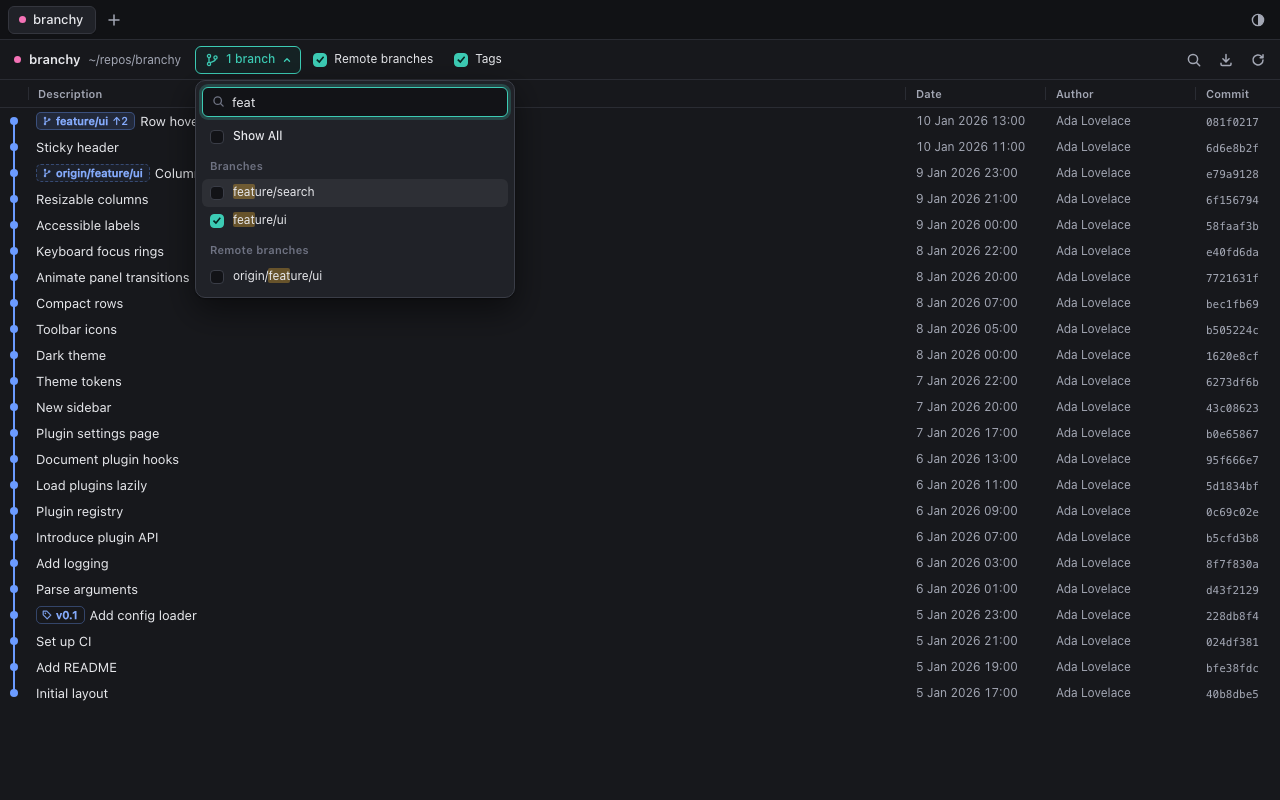
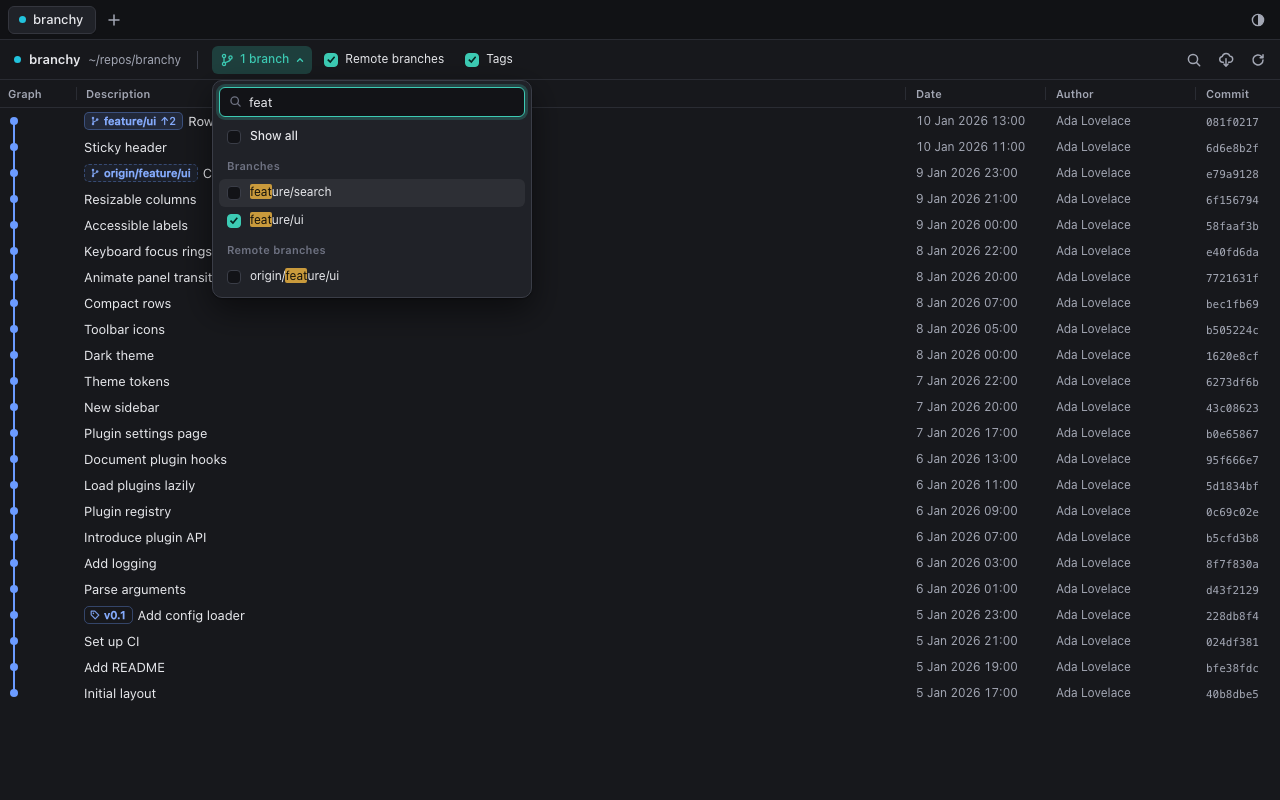
style(ui): cloud fetch glyph, recessed pop-up branch button, divider after the repository path; screenshots with the pointer parked off the grid

Changed region(s): [[0.0, 0.0312, 0.4375, 0.875], [0.375, 0.2188, 0.4375, 0.25], [0.9375, 0.0625, 0.9688, 0.0938]]

diff --git a/e2e/screens.spec.ts b/e2e/screens.spec.ts
@@ -67,7 +67,7 @@ for (const theme of ["light", "dark"] as const) {
     await open(page, gg.repoPath("branchy"));
     const grid = page.getByRole("grid", { name: "Commits" });
     await expect(grid.locator('[data-index="0"] .subject')).not.toBeEmpty();
-    await page.mouse.move(900, 790);
+    await page.mouse.move(700, 60);
     await page.waitForTimeout(150);
     await page.screenshot({ path: path.join(OUT, `toolbar-${theme}.png`) });
 
@@ -77,6 +77,7 @@ for (const theme of ["light", "dark"] as const) {
     await dialog.getByRole("option", { name: "feature/ui", exact: true }).click();
     await expect(grid.locator('[data-index="0"] .subject')).toHaveText("Row hover states");
     await page.keyboard.type("feat");
+    await page.mouse.move(1000, 60); // off the list and the grid
     await page.waitForTimeout(250);
     await page.screenshot({ path: path.join(OUT, `toolbar-filter-${theme}.png`) });
     await dialog.getByRole("option", { name: "Show all", exact: true }).click();
@@ -88,7 +89,7 @@ for (const theme of ["light", "dark"] as const) {
     await expect(page.getByTestId("search-count")).toHaveText(/^1 of \d+$/);
     await page.keyboard.press("Enter");
     await expect(page.getByTestId("search-count")).toHaveText(/^2 of \d+$/);
-    await page.mouse.move(900, 790);
+    await page.mouse.move(700, 60);
     await page.waitForTimeout(200);
     await page.screenshot({ path: path.join(OUT, `toolbar-search-${theme}.png`) });
   });

diff --git a/src/lib/components/BranchFilter.svelte b/src/lib/components/BranchFilter.svelte
@@ -311,34 +311,44 @@
     flex: none;
   }
 
+  /* A macOS-style recessed pop-up button: no border; filled on hover and while open. */
   .trigger {
     display: inline-flex;
     align-items: center;
-    gap: 7px;
+    gap: 6px;
     height: 28px;
     max-width: 220px;
-    padding: 0 8px 0 9px;
-    border: 1px solid var(--border-strong);
+    padding: 0 7px 0 8px;
+    border: 0;
     border-radius: var(--radius);
-    background: var(--field-bg);
+    background: transparent;
     color: var(--text);
     font-size: var(--fs-sm);
-    transition: background-color 80ms linear, border-color 80ms linear;
+    transition: background-color 80ms linear, color 80ms linear;
   }
 
   .trigger:hover {
-    border-color: var(--text-faint);
+    background: var(--bg-hover);
   }
 
   .trigger:active,
   .trigger.open {
-    background: var(--bg-hover);
+    background: var(--bg-pressed);
   }
 
+  /* Filtered: the choice reads in the accent colour, on a faint accent fill. */
   .trigger.filtered {
-    border-color: var(--accent);
     color: var(--accent);
-    background: color-mix(in srgb, var(--accent) 8%, var(--field-bg));
+    background: color-mix(in srgb, var(--accent) 11%, transparent);
+  }
+
+  .trigger.filtered:hover {
+    background: color-mix(in srgb, var(--accent) 16%, transparent);
+  }
+
+  .trigger.filtered:active,
+  .trigger.filtered.open {
+    background: color-mix(in srgb, var(--accent) 22%, transparent);
   }
 
   .lead,

diff --git a/src/lib/components/Toolbar.svelte b/src/lib/components/Toolbar.svelte
@@ -38,6 +38,7 @@
 </script>
 
 <div class="toolbar">
+  <span class="divider" aria-hidden="true"></span>
   <BranchFilter {view} />
 
   <label class="toggle">
@@ -80,12 +81,13 @@
         <path d="M8 2.4a5.6 5.6 0 0 1 5.6 5.6" fill="none" stroke="currentColor" stroke-width="1.6" stroke-linecap="round" />
       </svg>
     {:else}
+      <!-- A cloud with an arrow coming down out of it: fetch from the remotes. -->
       <svg width="16" height="16" viewBox="0 0 16 16" aria-hidden="true">
         <path
-          d="M8 2.5v7.2M4.9 6.8 8 9.9l3.1-3.1M3 11.2v1.1c0 .7.5 1.2 1.2 1.2h7.6c.7 0 1.2-.5 1.2-1.2v-1.1"
+          d="M5.4 10.2H4.6a2.9 2.9 0 0 1-.3-5.78 3.9 3.9 0 0 1 7.5-.3 2.95 2.95 0 0 1-.3 6.08h-.9M8 6.6v7.6M5.9 12.1 8 14.2l2.1-2.1"
           fill="none"
           stroke="currentColor"
-          stroke-width="1.5"
+          stroke-width="1.45"
           stroke-linecap="round"
           stroke-linejoin="round"
         />
@@ -129,6 +131,15 @@
     flex: 1 1 auto;
     min-width: 0;
     height: 100%;
+  }
+
+  /* Separates the repository's name and path from the controls. */
+  .divider {
+    flex: none;
+    width: 1px;
+    height: 18px;
+    margin: 0 10px 0 2px;
+    background: var(--border-strong);
   }
 
   .toggle {
